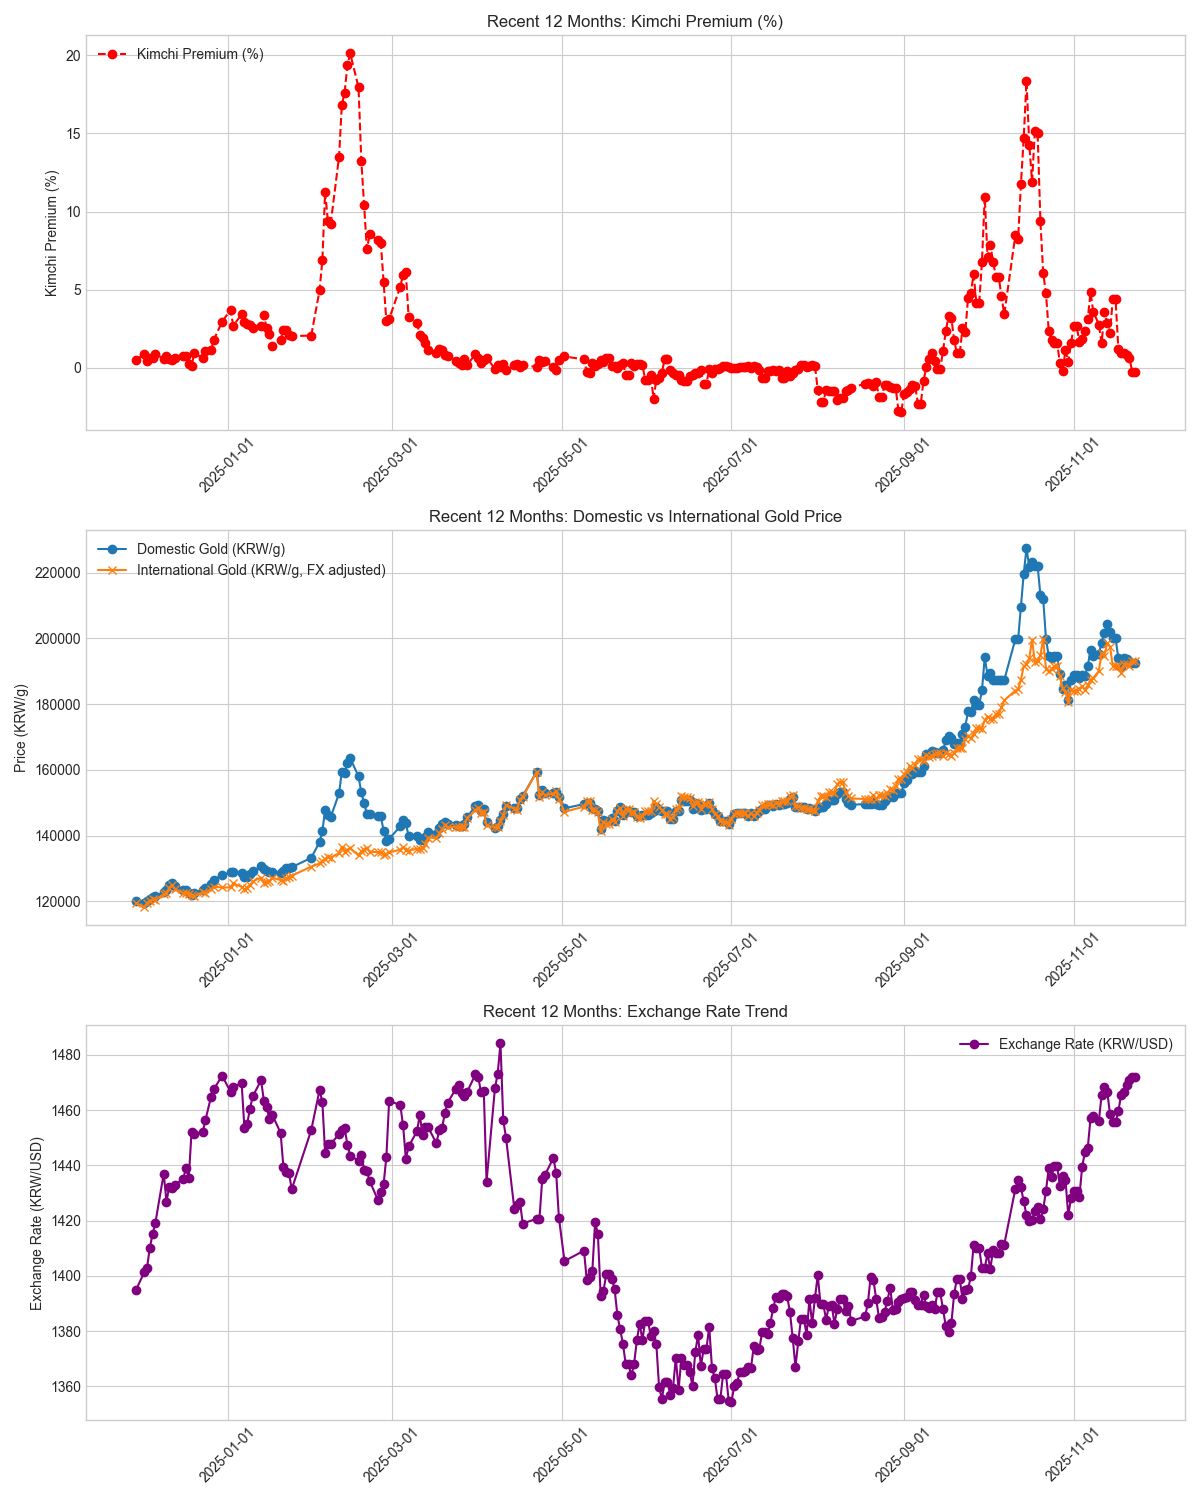
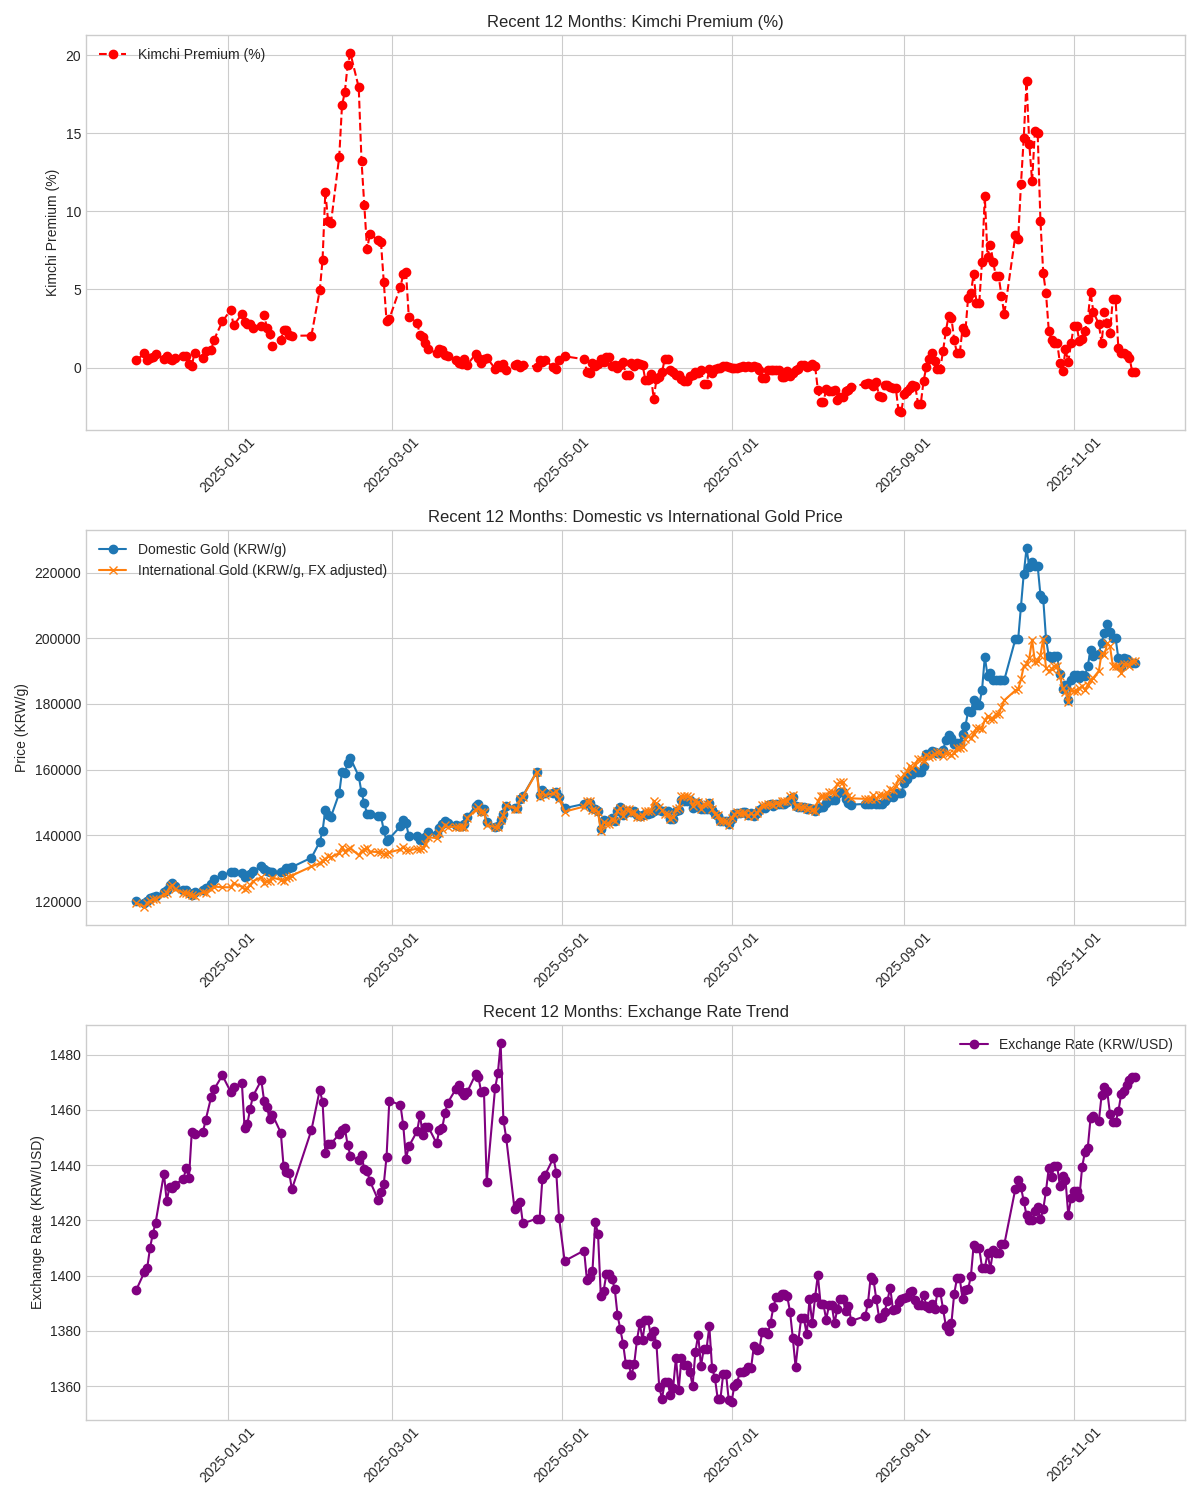
2025-11-24

diff --git a/src/kimchi_gold/chart_generator.py b/src/kimchi_gold/chart_generator.py
@@ -2,6 +2,7 @@
 김치 프리미엄과 금 가격 데이터의 차트를 생성하는 모듈입니다.
 """
 
+import sys
 import pandas as pd
 import matplotlib
 matplotlib.use("Agg")
@@ -11,6 +12,9 @@ from pathlib import Path
 from datetime import datetime, timedelta
 from matplotlib.axes import Axes
 from matplotlib.figure import Figure
+
+# Increase recursion limit to handle matplotlib's deepcopy issues
+sys.setrecursionlimit(5000)
 
 from .configuration import (
     DATA_STORAGE_DIRECTORY,
@@ -73,7 +77,7 @@ def generate_kimchi_premium_chart(
         chart_data_df: 그래프에 사용할 데이터프레임 (날짜를 인덱스로 가져야 함)
         display_period_months: 그래프 제목에 표시할 기간 (개월 수)
     """
-    (line,) = chart_axes.plot(
+    chart_axes.plot(
         chart_data_df.index,
         chart_data_df["김치프리미엄(%)"],
         label="Kimchi Premium (%)",
@@ -83,7 +87,7 @@ def generate_kimchi_premium_chart(
     )
     chart_axes.set_ylabel("Kimchi Premium (%)")
     chart_axes.set_title(f"Recent {display_period_months} Months: Kimchi Premium (%)")
-    chart_axes.legend(handles=[line], loc="upper left")
+    chart_axes.legend(loc="upper left")
     chart_axes.tick_params(axis="x", rotation=45)
     chart_axes.xaxis.set_major_locator(mdates.AutoDateLocator())
     chart_axes.xaxis.set_major_formatter(mdates.DateFormatter("%Y-%m-%d"))
@@ -101,7 +105,7 @@ def generate_gold_prices_comparison_chart(
         chart_data_df: 그래프에 사용할 데이터프레임
         display_period_months: 그래프 제목에 표시할 기간 (개월 수)
     """
-    (line1,) = chart_axes.plot(
+    chart_axes.plot(
         chart_data_df.index,
         chart_data_df["국내금(원/g)"],
         label="Domestic Gold (KRW/g)",
@@ -115,7 +119,7 @@ def generate_gold_prices_comparison_chart(
         * chart_data_df["환율(원/달러)"]
     )
 
-    (line2,) = chart_axes.plot(
+    chart_axes.plot(
         chart_data_df.index,
         international_gold_price_krw_per_gram,
         label="International Gold (KRW/g, FX adjusted)",
@@ -125,7 +129,7 @@ def generate_gold_prices_comparison_chart(
     chart_axes.set_title(
         f"Recent {display_period_months} Months: Domestic vs International Gold Price"
     )
-    chart_axes.legend(handles=[line1, line2])
+    chart_axes.legend()
     chart_axes.tick_params(axis="x", rotation=45)
     chart_axes.xaxis.set_major_locator(mdates.AutoDateLocator())
     chart_axes.xaxis.set_major_formatter(mdates.DateFormatter("%Y-%m-%d"))
@@ -143,7 +147,7 @@ def generate_exchange_rate_trend_chart(
         chart_data_df: 그래프에 사용할 데이터프레임
         display_period_months: 그래프 제목에 표시할 기간 (개월 수)
     """
-    (line,) = chart_axes.plot(
+    chart_axes.plot(
         chart_data_df.index,
         chart_data_df["환율(원/달러)"],
         label="Exchange Rate (KRW/USD)",
@@ -152,7 +156,7 @@ def generate_exchange_rate_trend_chart(
     )
     chart_axes.set_ylabel("Exchange Rate (KRW/USD)")
     chart_axes.set_title(f"Recent {display_period_months} Months: Exchange Rate Trend")
-    chart_axes.legend(handles=[line])
+    chart_axes.legend()
     chart_axes.tick_params(axis="x", rotation=45)
     chart_axes.xaxis.set_major_locator(mdates.AutoDateLocator())
     chart_axes.xaxis.set_major_formatter(mdates.DateFormatter("%Y-%m-%d"))
